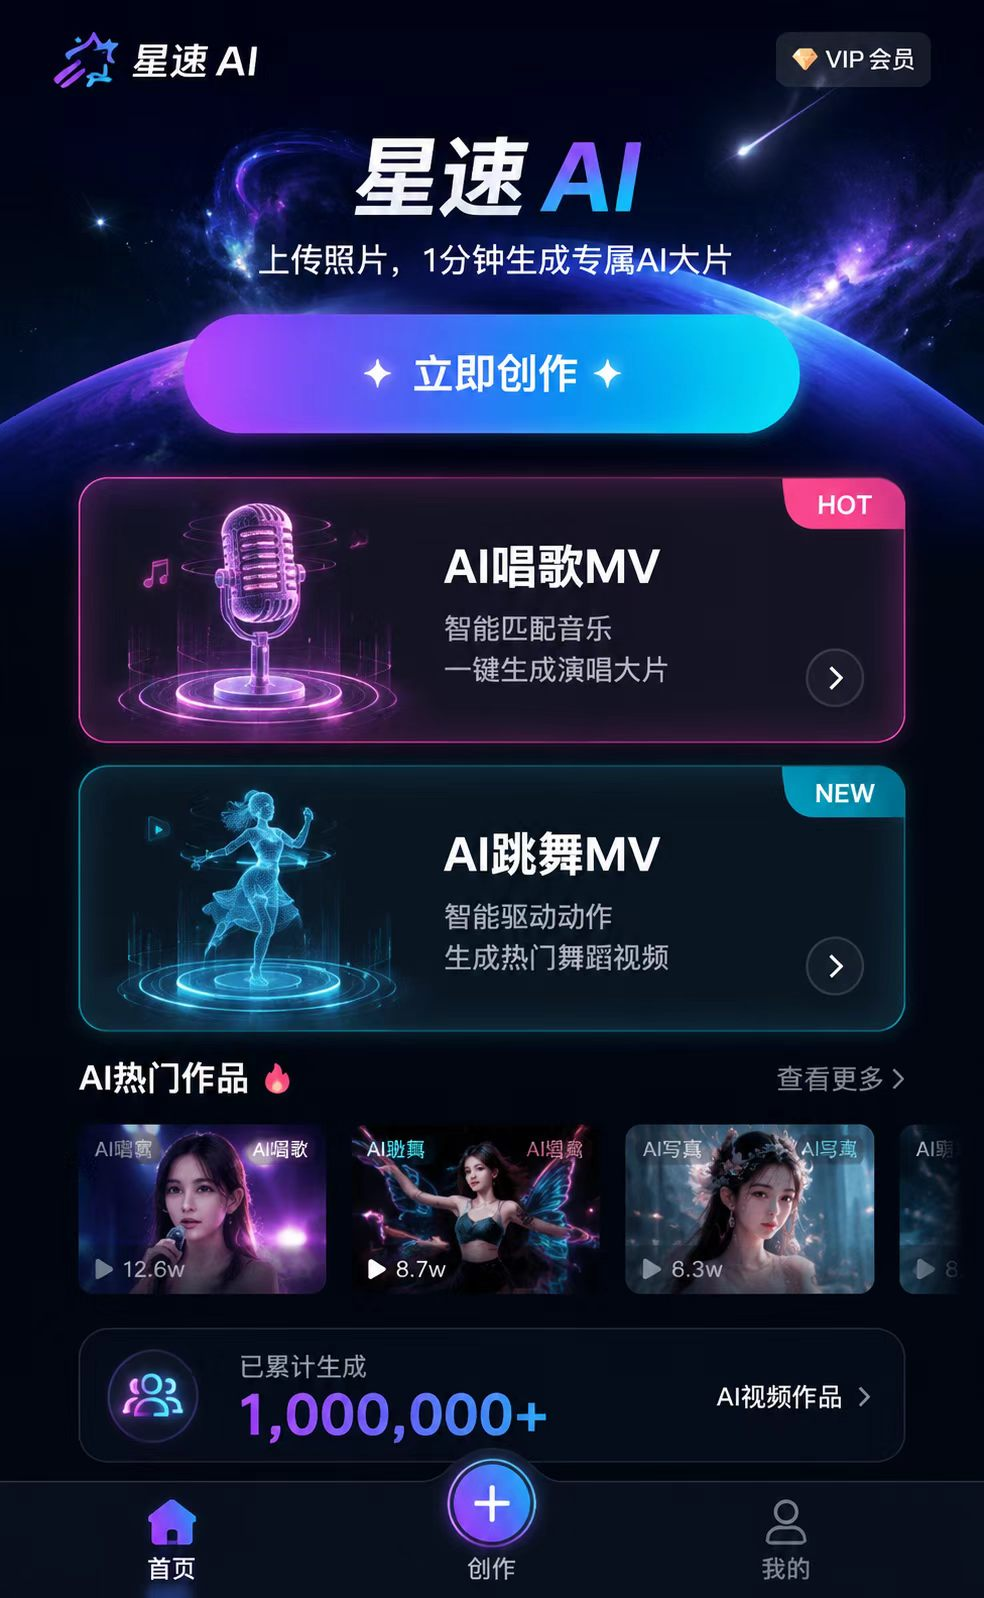
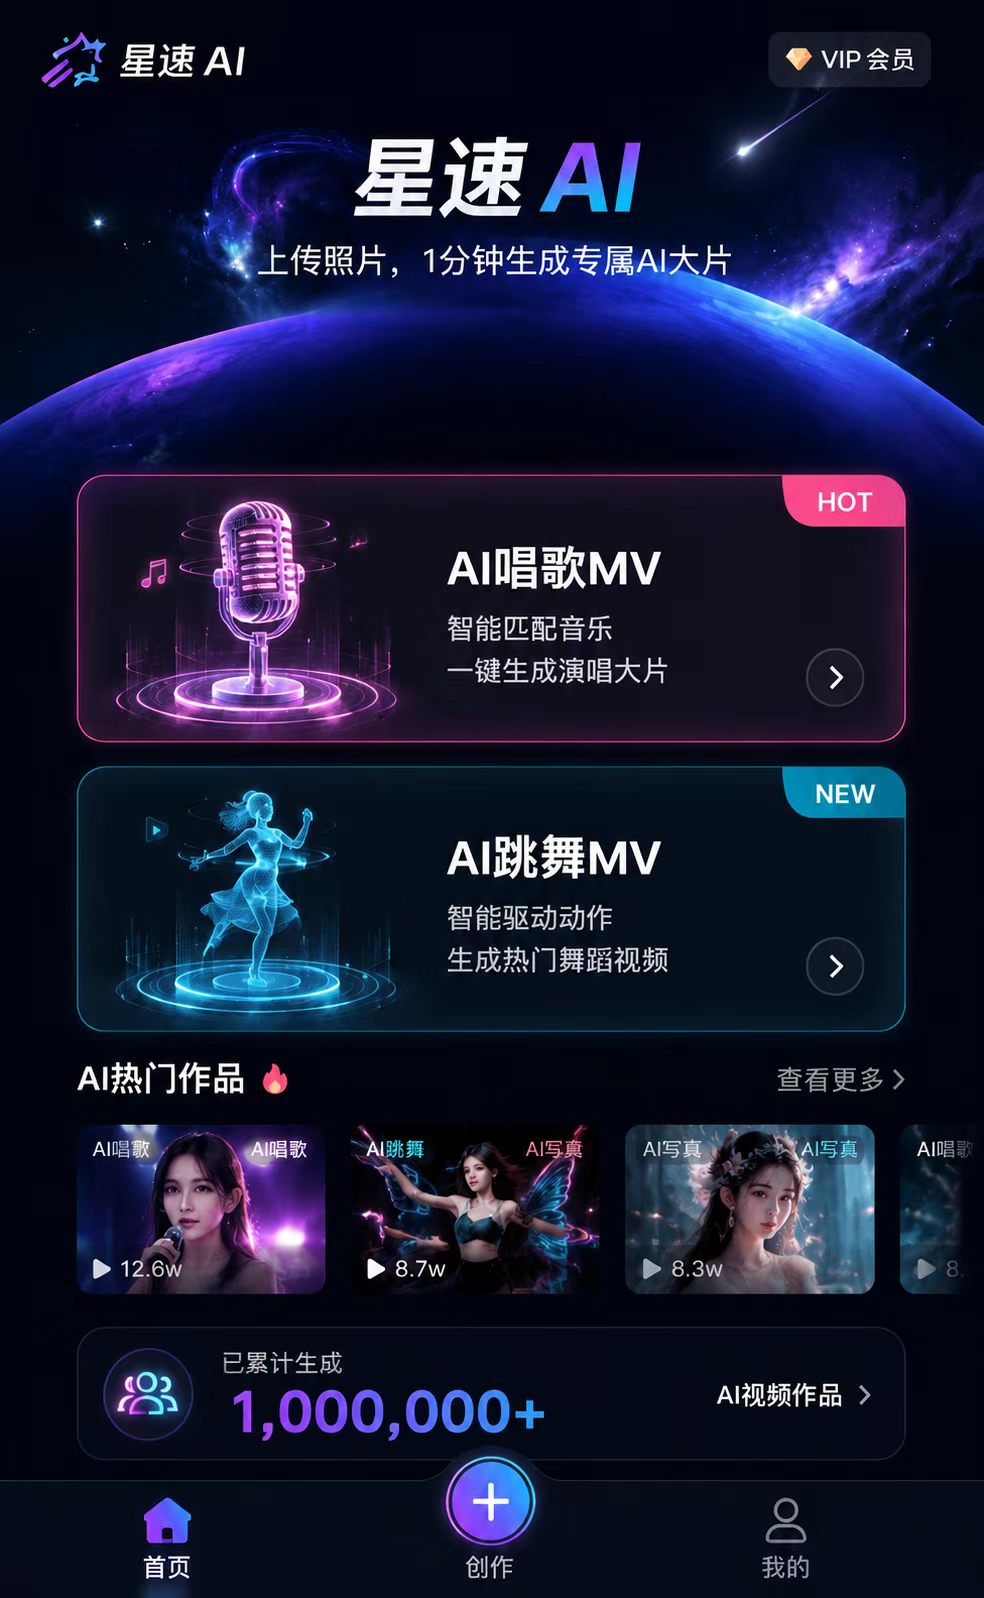
Replace homepage with clean reference image

diff --git a/src/views/HomePage.vue b/src/views/HomePage.vue
@@ -45,10 +45,9 @@ onMounted(() => {
 <template>
   <div class="home-screen">
     <figure class="home-stage">
-      <img class="home-reference" src="/home-reference.jpg" alt="星速AI 首页预览" draggable="false" />
+      <img class="home-reference" src="/home-reference.jpg" alt="星速AI 首页" draggable="false" />
 
       <div class="hotspots">
-        <div class="cta-cover" aria-hidden="true"></div>
         <button class="hotspot vip-hotspot" type="button" aria-label="VIP 会员" @click="handleVip" />
         <button class="hotspot sing-hotspot" type="button" aria-label="AI唱歌MV" @click="goCreate('sing')" />
         <button class="hotspot dance-hotspot" type="button" aria-label="AI跳舞MV" @click="goCreate('dance')" />
@@ -93,27 +92,6 @@ onMounted(() => {
 .hotspots {
   position: absolute;
   inset: 0;
-}
-
-.cta-cover {
-  position: absolute;
-  z-index: 1;
-  top: 19.2%;
-  left: 10.4%;
-  width: 79.2%;
-  height: 11.3%;
-  border-radius: 34px;
-  background:
-    radial-gradient(ellipse at 16% 18%, rgba(112, 54, 218, 0.58), transparent 44%),
-    radial-gradient(ellipse at 84% 18%, rgba(15, 173, 211, 0.38), transparent 46%),
-    radial-gradient(ellipse at 50% 112%, rgba(44, 39, 126, 0.32), transparent 56%),
-    linear-gradient(180deg, rgba(9, 12, 43, 0.78), rgba(4, 7, 26, 0.9));
-  box-shadow:
-    inset 0 0 34px rgba(8, 11, 33, 0.58),
-    0 0 18px rgba(6, 10, 31, 0.36);
-  backdrop-filter: blur(16px) saturate(1.28);
-  -webkit-backdrop-filter: blur(16px) saturate(1.28);
-  pointer-events: none;
 }
 
 .hotspot {